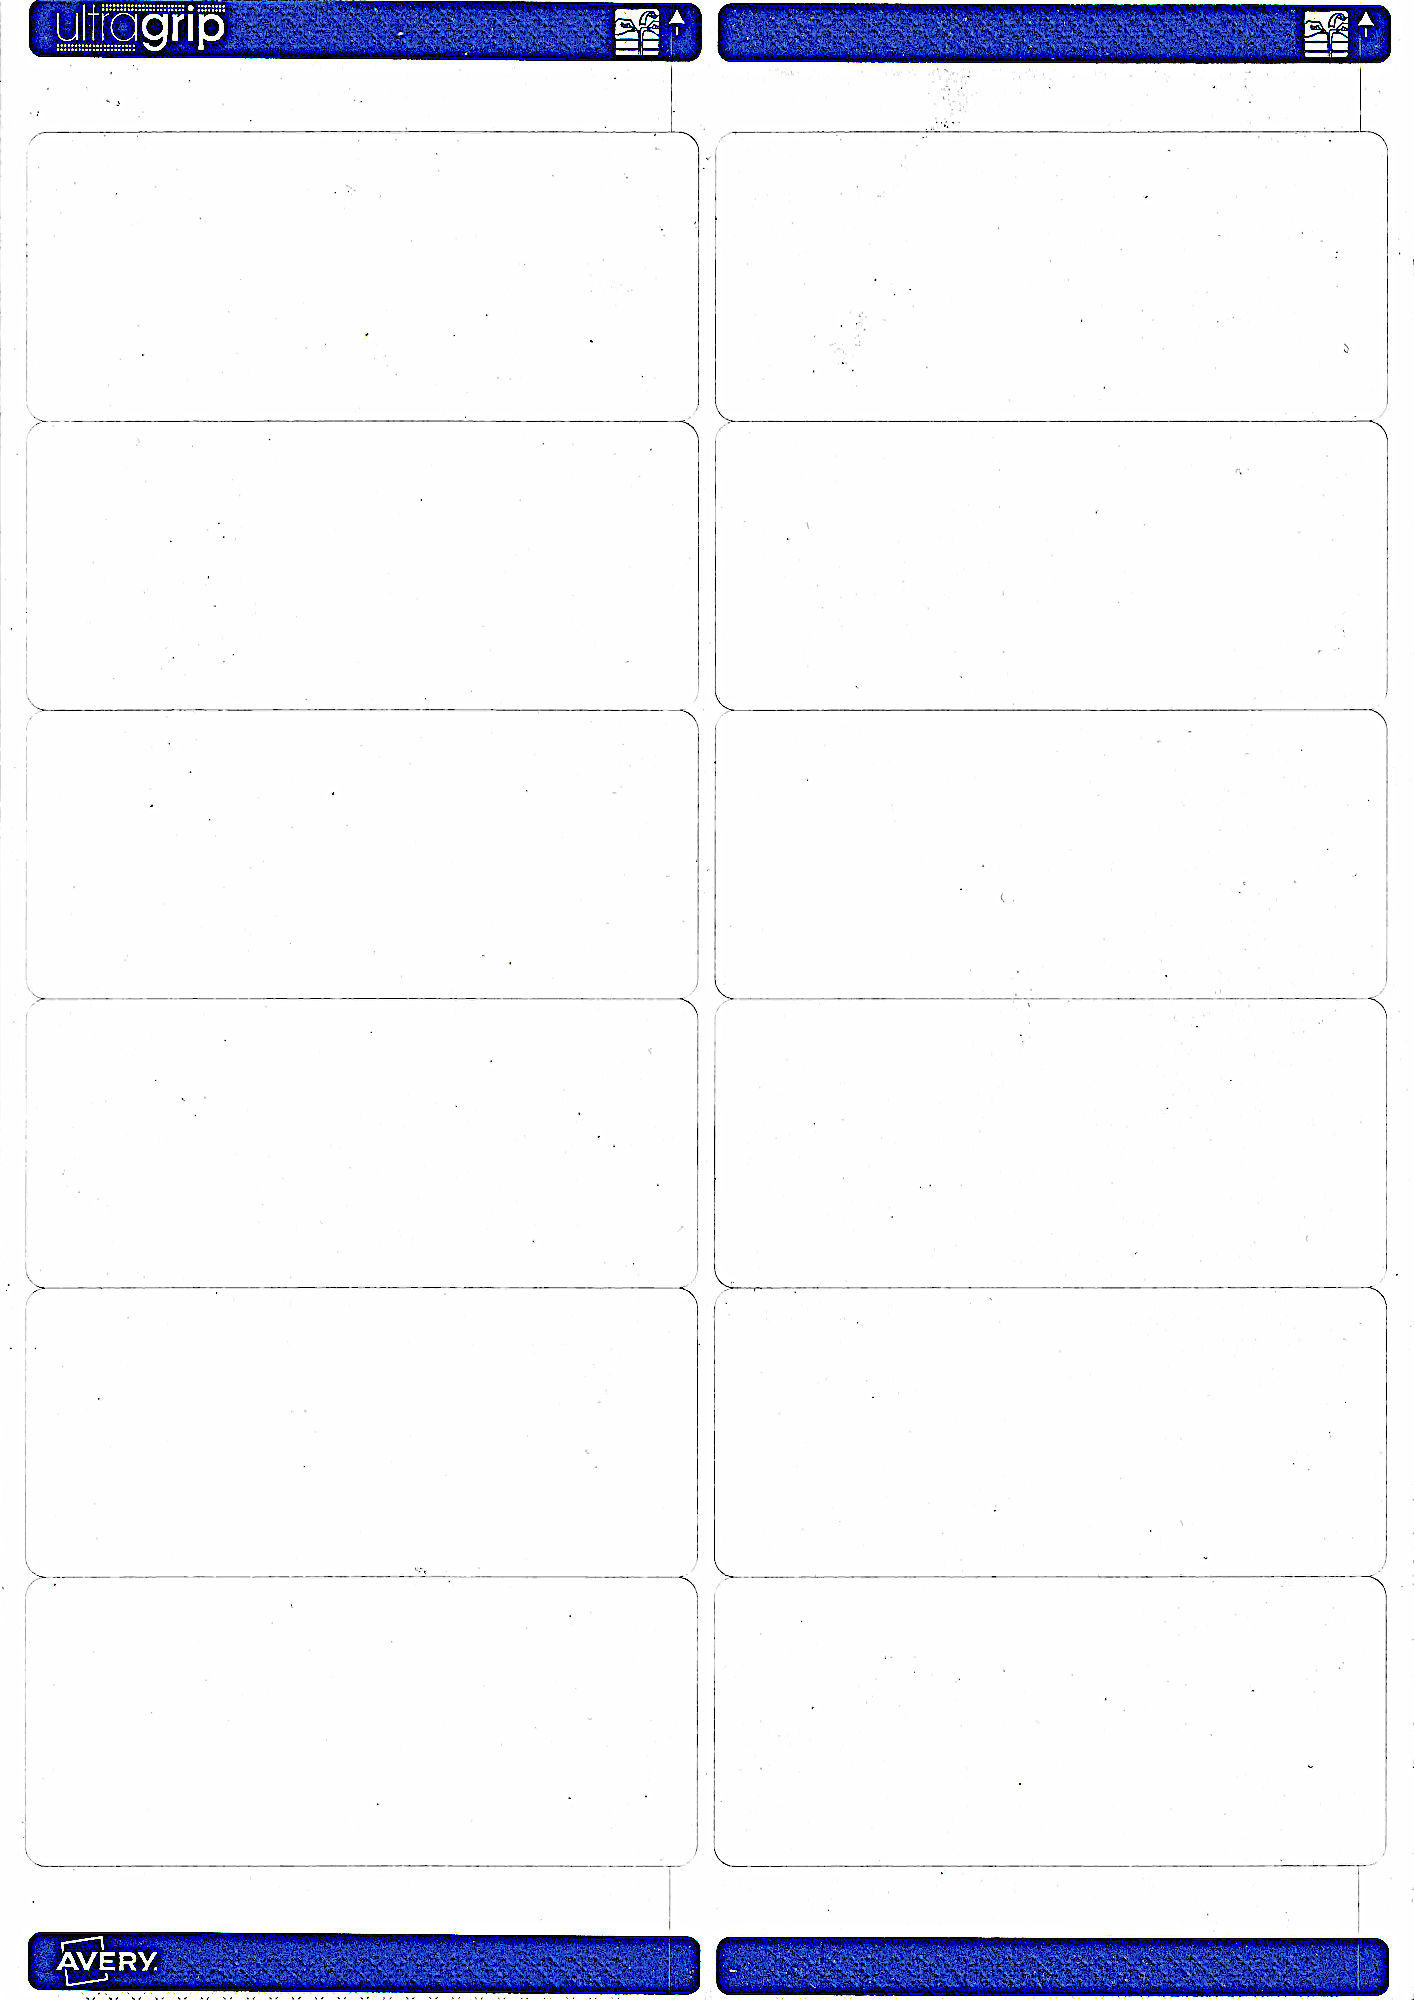
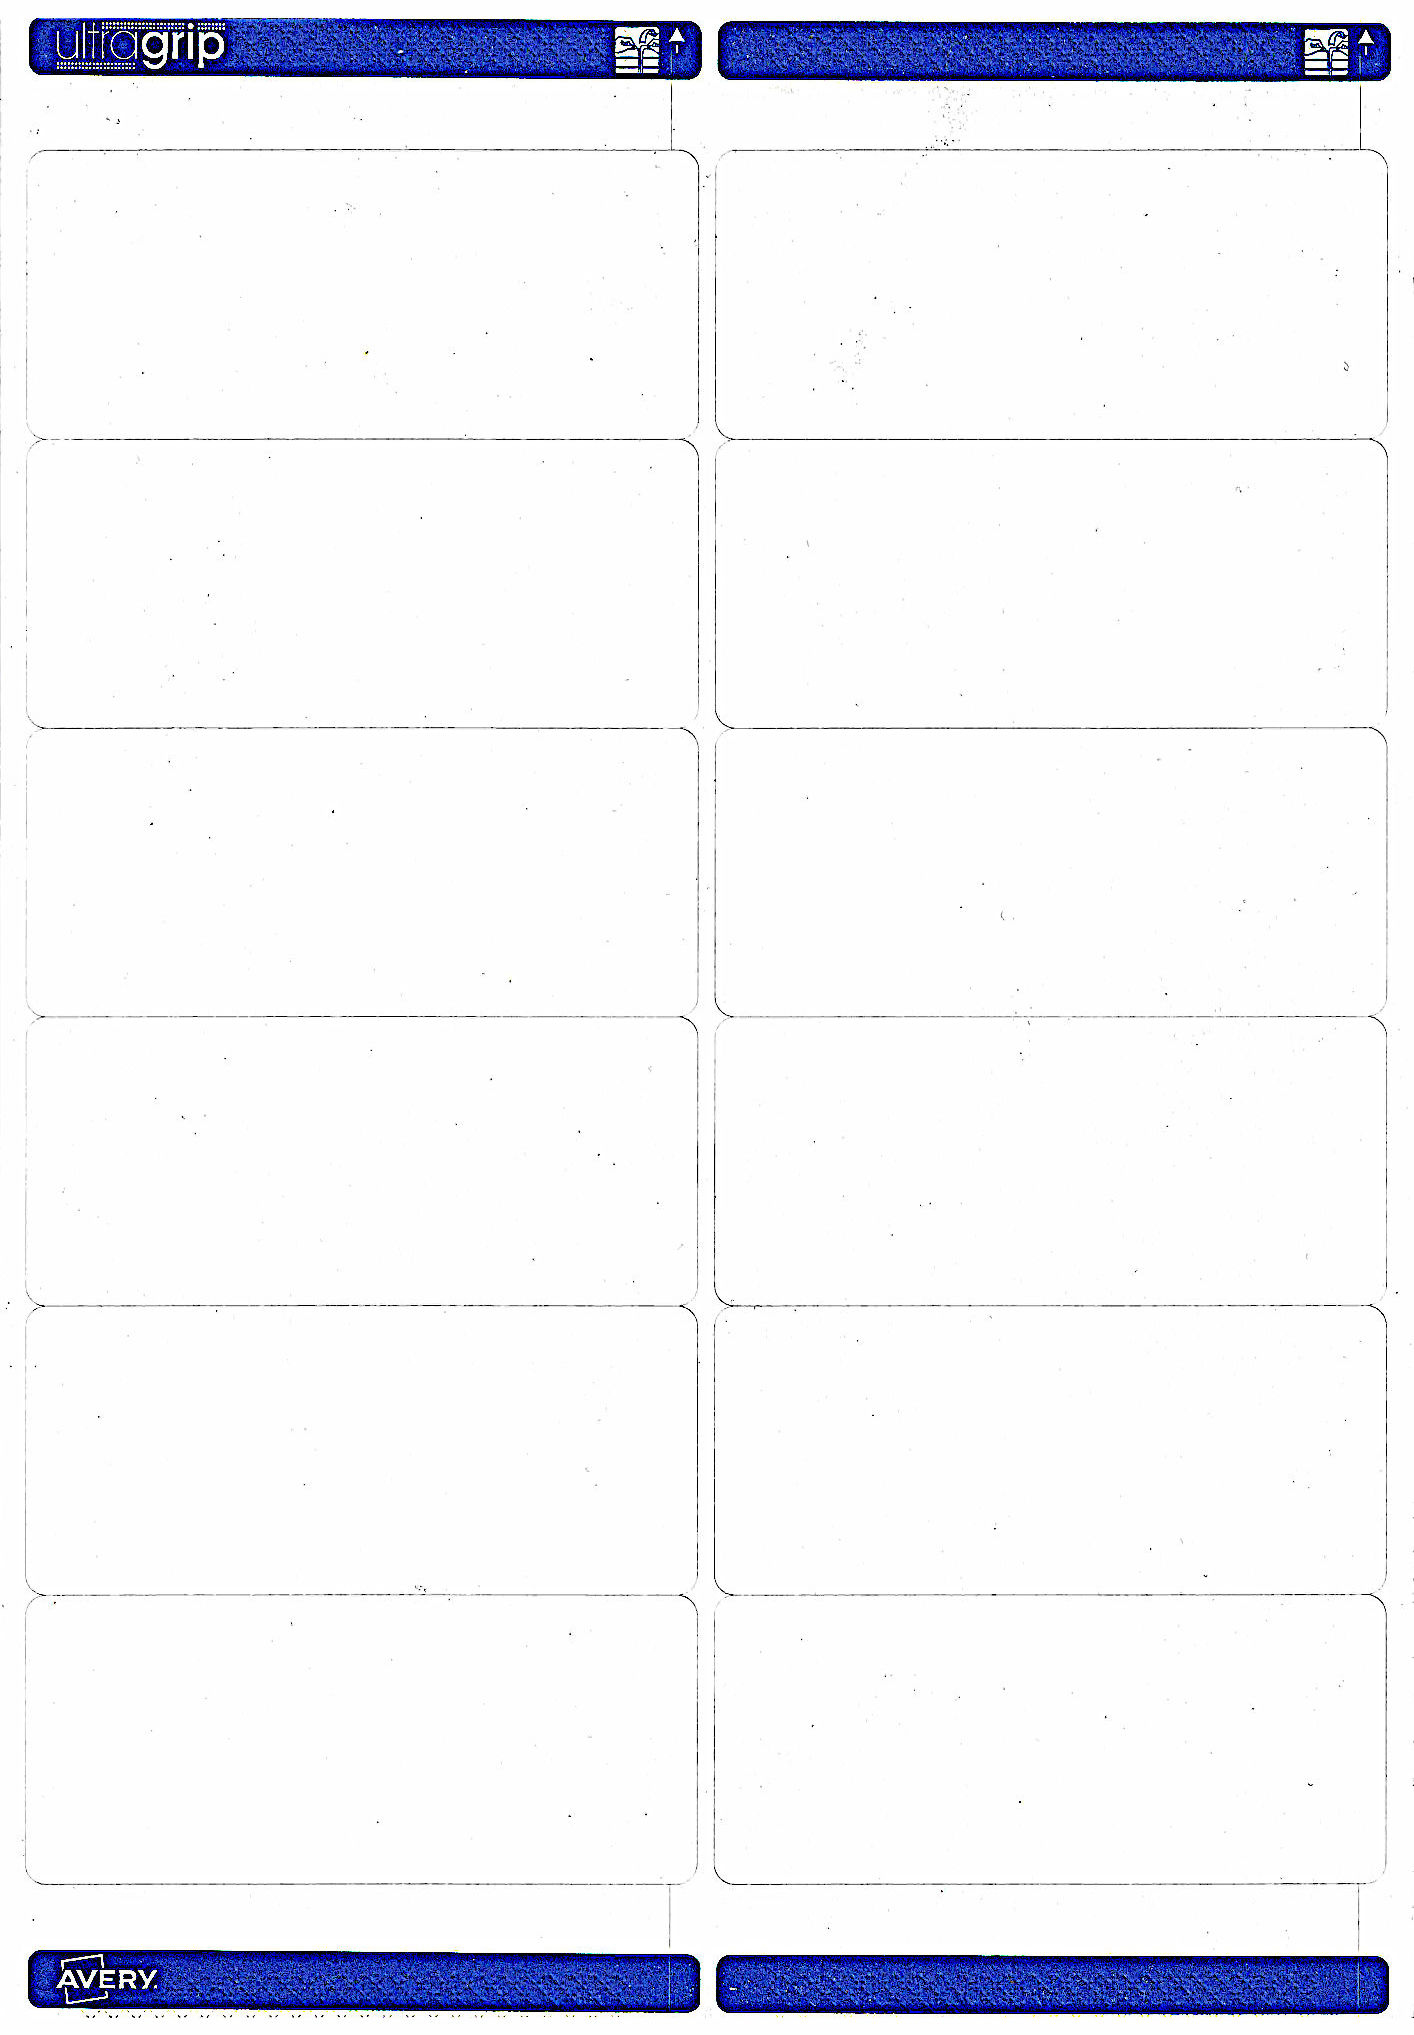
Improve / correct some styles + add a mechanisme to display a custom page (not the repetition of the same label)

Changed region(s): [[0.0, 0.93, 0.9958, 1.0], [0.0, 0.0, 0.9958, 0.093]]

diff --git a/assets/styles/page/_avery-rectangle-2x6.scss b/assets/styles/page/_avery-rectangle-2x6.scss
@@ -1,14 +1,16 @@
 &.avery-rectangle-2x6 {
-    @include size-page-a4(0.4cm, $top: 2cm, $bottom: 2cm);
+    @include size-page-a4($top: 2.2cm, $bottom: 2.2cm, $left: 0.6cm, $right: 0.6cm);
     @include grid(2, 6);
-    grid-column-gap: 0.2cm;
+    grid-column-gap: 0.3cm;
+    align-items: center;
+    justify-items: center;
 
     @media screen {
-        background: url('/public/images/page/avery-rectangle-2x6.jpg') no-repeat center center / cover;
+        background: url('/public/images/page/avery-rectangle-2x6.jpg') no-repeat center center / contain;
     }
 
     > .label {
-        --label-size-width: calc(9.9cm);
-        height: 4.2cm;
+        --label-size-width: calc(9.7cm);
+        height: 4cm;
     }
 }

diff --git a/assets/styles/label/_three-parts-rectangle.scss b/assets/styles/label/_three-parts-rectangle.scss
@@ -22,8 +22,7 @@
         // slogan
         h2 {
             font-size: 1.4em;
-            -webkit-text-stroke: 1px;
-            transform: scaleY(1.25);
+            -webkit-text-stroke: 0.01em;
         }
     }
 
@@ -64,7 +63,7 @@
         overflow: hidden;
         height: 87%;
         padding: $space-sm;
-        font-size: 0.85em;
+        font-size: 0.80em;
 
         .address,
         .ingredients {

diff --git a/assets/styles/app.scss b/assets/styles/app.scss
@@ -1,5 +1,5 @@
 @import url('https://cdn.jsdelivr.net/npm/reset-css/reset.min.css');
-@import url('https://fonts.googleapis.com/css?family=Amatic+SC');
+@import url('https://fonts.googleapis.com/css2?family=Amatic+SC:wght@700&display=swap');
 @import url('https://fonts.googleapis.com/css?family=Roboto');
 
 @import 'variables';

diff --git a/assets/styles/_label.scss b/assets/styles/_label.scss
@@ -29,7 +29,7 @@
 
         h1 {
             color: $color-orange;
-            @include text-border(1);
+            -webkit-text-stroke: 0.02em black;
         }
     }
 }

diff --git a/src/Controller/MainController.php b/src/Controller/MainController.php
@@ -20,6 +20,15 @@ class MainController extends AbstractController
         ]);
     }
 
+    #[Route('/page/{id}')]
+    public function page(Page $page, LabelRepository $labelRepository): Response
+    {
+        return $this->render("main/page.html.twig", [
+            'page' => $page,
+            'labels' => $labelRepository->findAll(),
+        ]);
+    }
+
     #[Route('/page/{page_id}/{label_id}')]
     public function pageLabel(Page $page, Label $label): Response
     {
